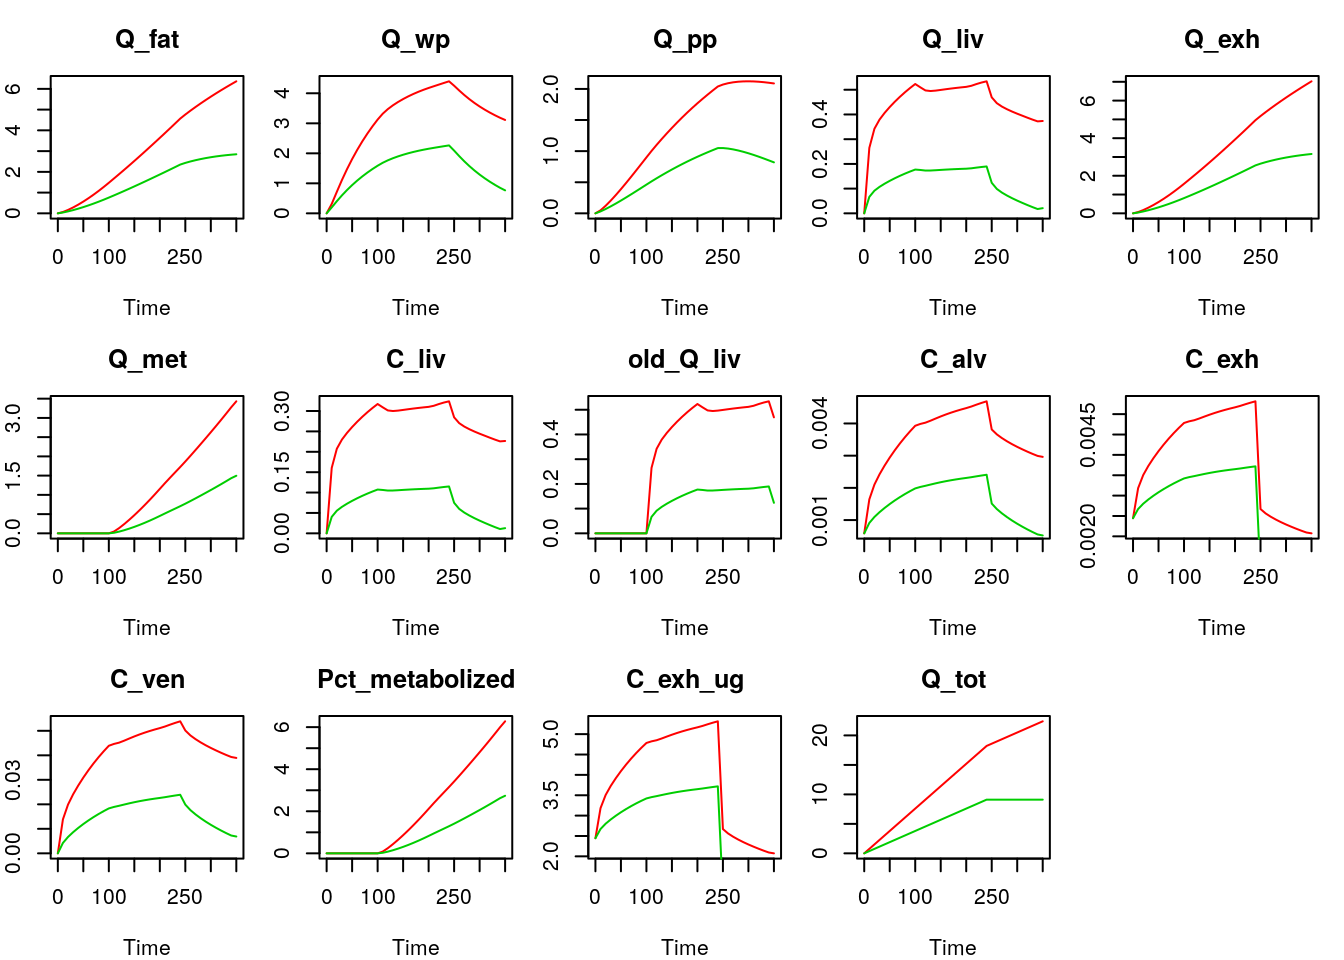
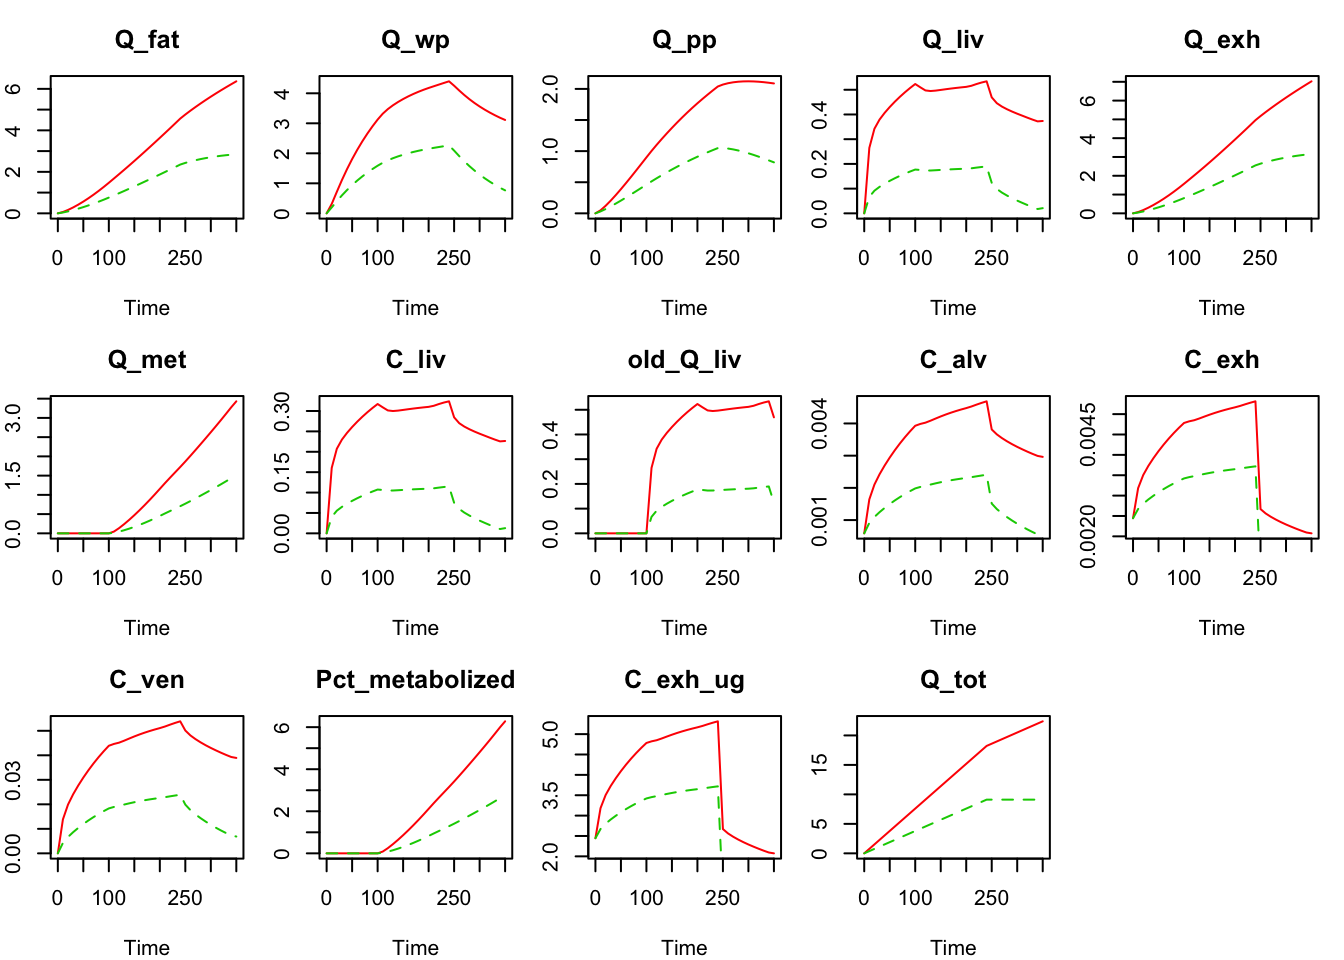
Revised

diff --git a/content/post/2018-04-16-mcsim-under-r-delay-differentials-example.html b/content/post/2018-04-16-mcsim-under-r-delay-differentials-example.html
@@ -159,7 +159,7 @@ out2 &lt;- dede(Y, times, func=&quot;derivs&quot;, parms=parms, dllname=&quot;pe
 for(i in 2:ncol(out1)){
   plot(out2[,1], out2[,i], type=&quot;l&quot;, xlab = &quot;Time&quot;, ylab=&quot;&quot; , 
        col = 2, main = names(out1[3,i])) 
-  lines(out1[,1], out1[,i], type=&quot;l&quot;, col =3)
+  lines(out1[,1], out1[,i], type = &quot;l&quot;, col = 3, lty = 2)
 }</code></pre>
 <p><img src="/post/2018-04-16-mcsim-under-r-delay-differentials-example_files/figure-html/unnamed-chunk-16-1.png" width="672" /></p>
 <p>The green dashed line is periodic exposure without constant exposure. The red solid line is periodic exposure with constant exposure. The simulation of delay output can obtain in <strong>old_Q_liv</strong>, <strong>Q_met</strong> and <strong>Pct_metabolized</strong>.</p>
